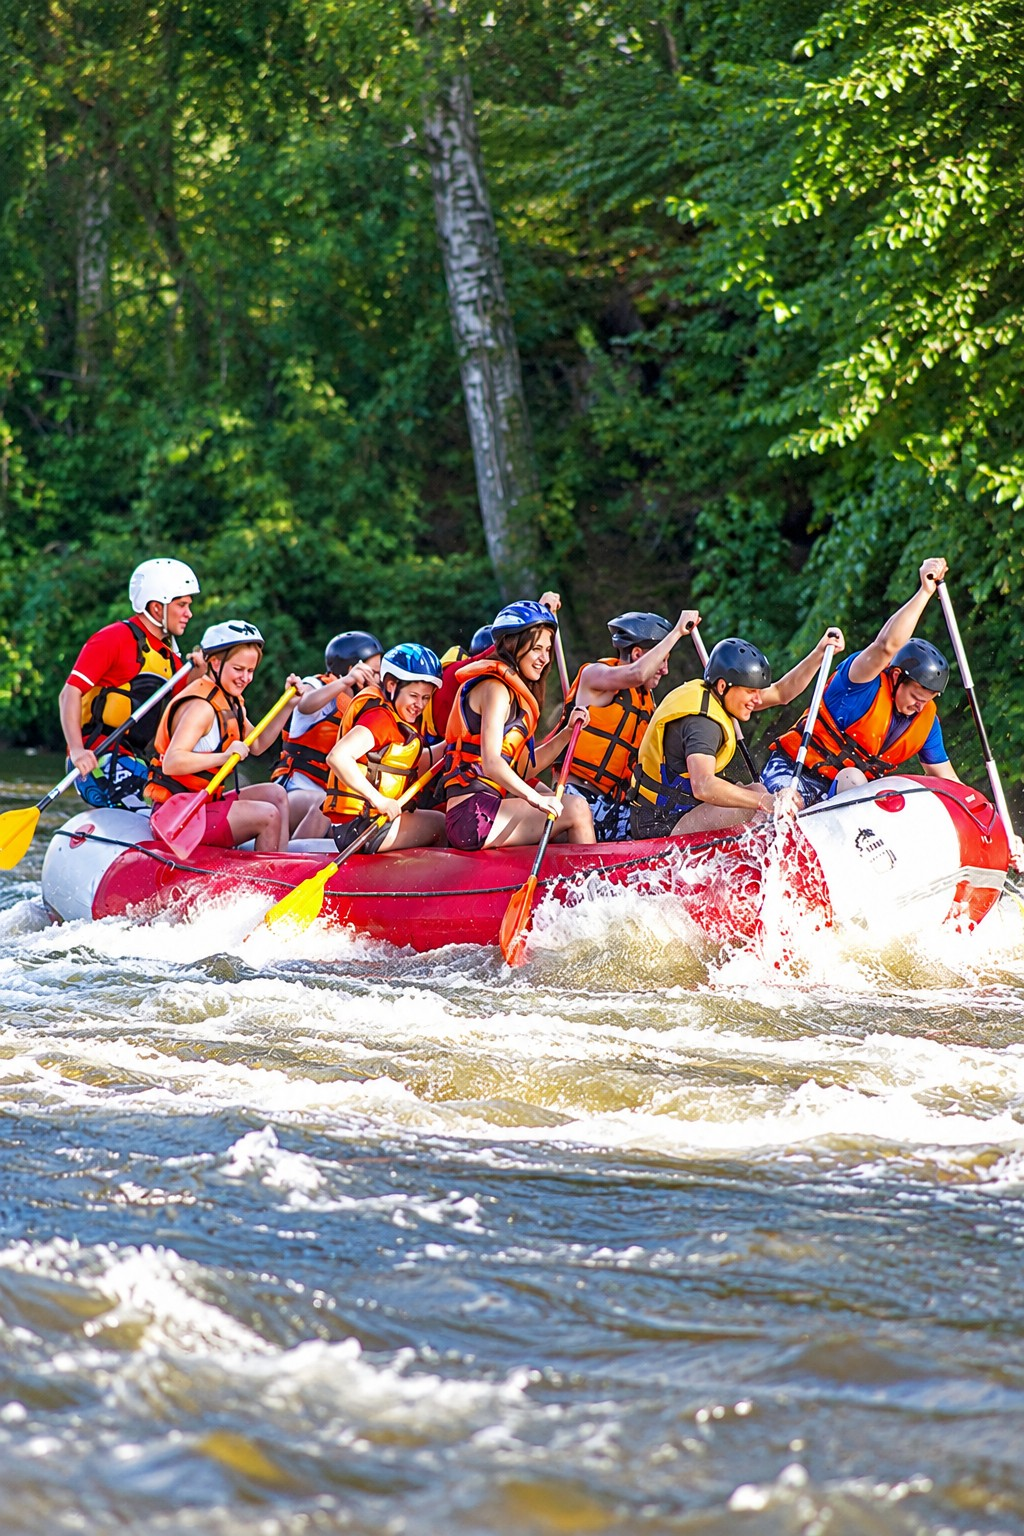
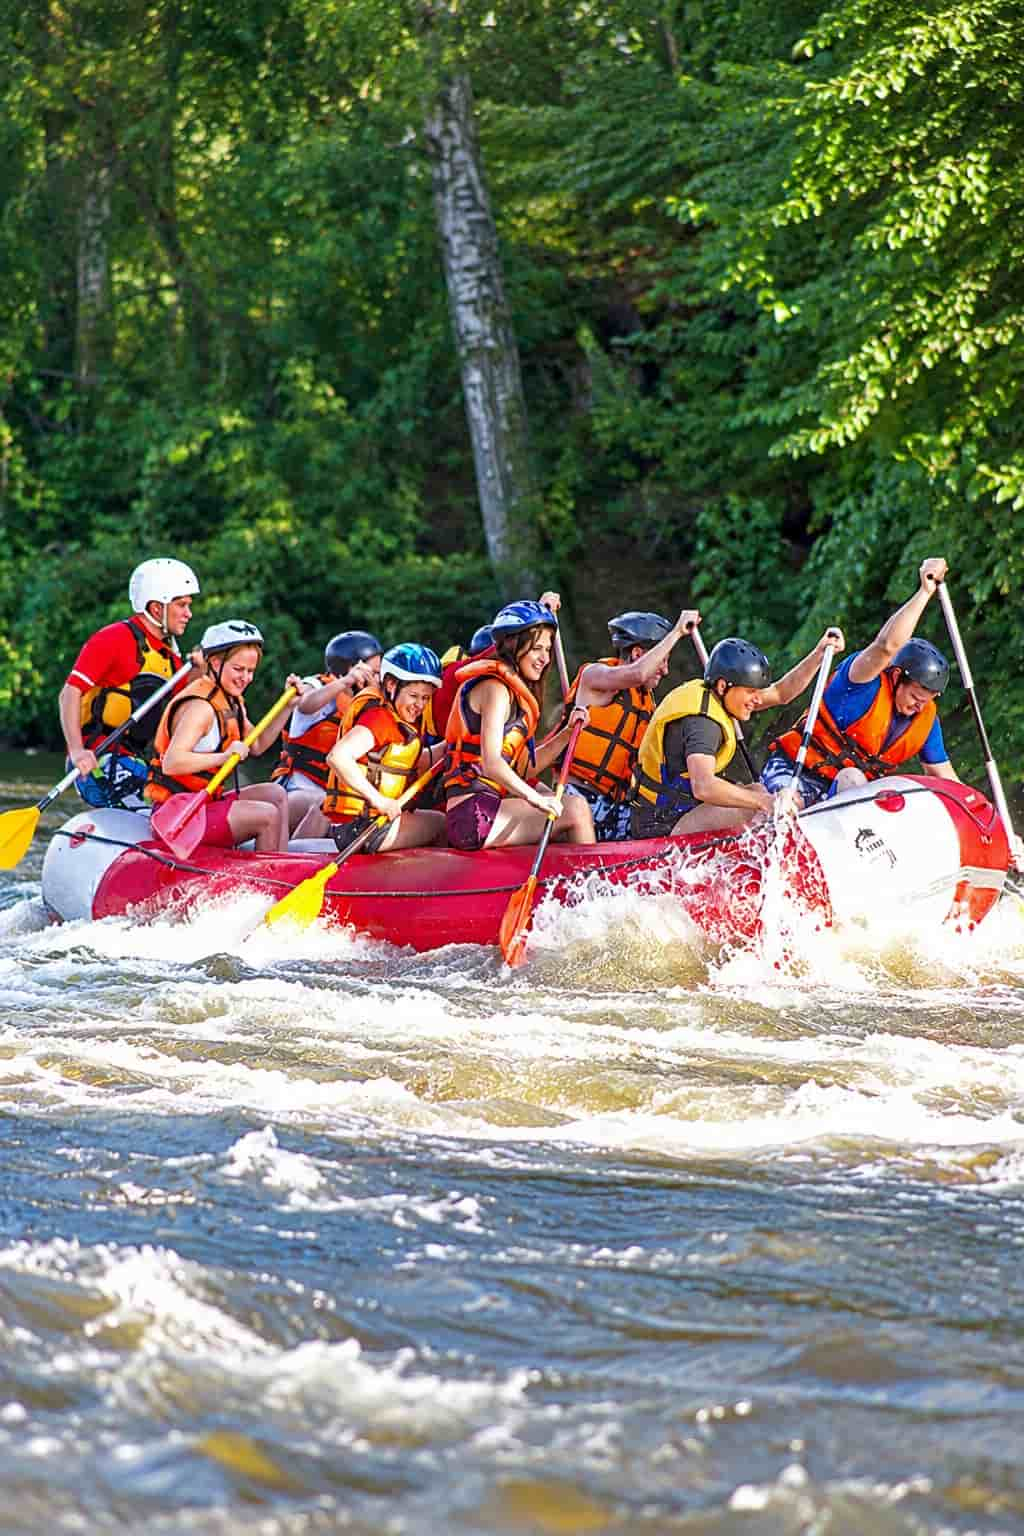
image size reduction

diff --git a/wwr/trips.html b/wwr/trips.html
@@ -5,7 +5,7 @@
     <meta charset="UTF-8">
     <meta name="viewport" content="width=device-width, initial-scale=1.0">
     <meta name="description"
-        content="TThis page tells users about White Water Rafting trips and provides a link to the Contact Us page for questions or reservations.">
+        content="This page tells users about White Water Rafting trips and provides a link to the Contact Us page for questions or reservations.">
     <meta name="author" content="Vladyslav Rudenko">
     <title>Trips | White Water Rafting</title>
     <link rel="stylesheet" href="styles/rafting.css">
